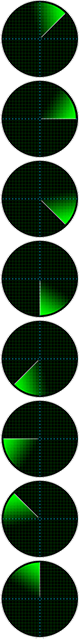
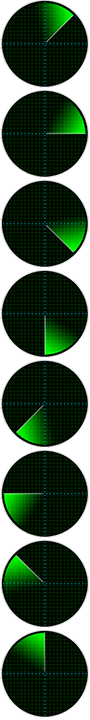
radar size, tank position

diff --git a/css/styles.css b/css/styles.css
@@ -45,7 +45,7 @@ body
 	height: 304px;
 	position:absolute;
 	bottom: 50px;
-	right: 80px;
+	right: 90px;
     background: url(../images/Body.png) no-repeat;
     z-index: 3;
 }
@@ -104,11 +104,11 @@ body
 }
 
 #radar {
-	width: 80px;
-	height: 80px;
+	width: 90px;
+	height: 90px;
 	position: absolute;
 	bottom: 40px;
-	left: 420px;
+	left: 430px;
    	background: url(../images/radarp.png);
 	-webkit-background-size: cover;
     -moz-background-size: cover;

diff --git a/js/radar.js b/js/radar.js
@@ -1,5 +1,5 @@
 function startRadarAnimation() {
-	    var frameHeight = 80;
+	    var frameHeight = 90;
 	    var frames = 8;
 	    var frame = 0;
 	    setInterval(function () {
